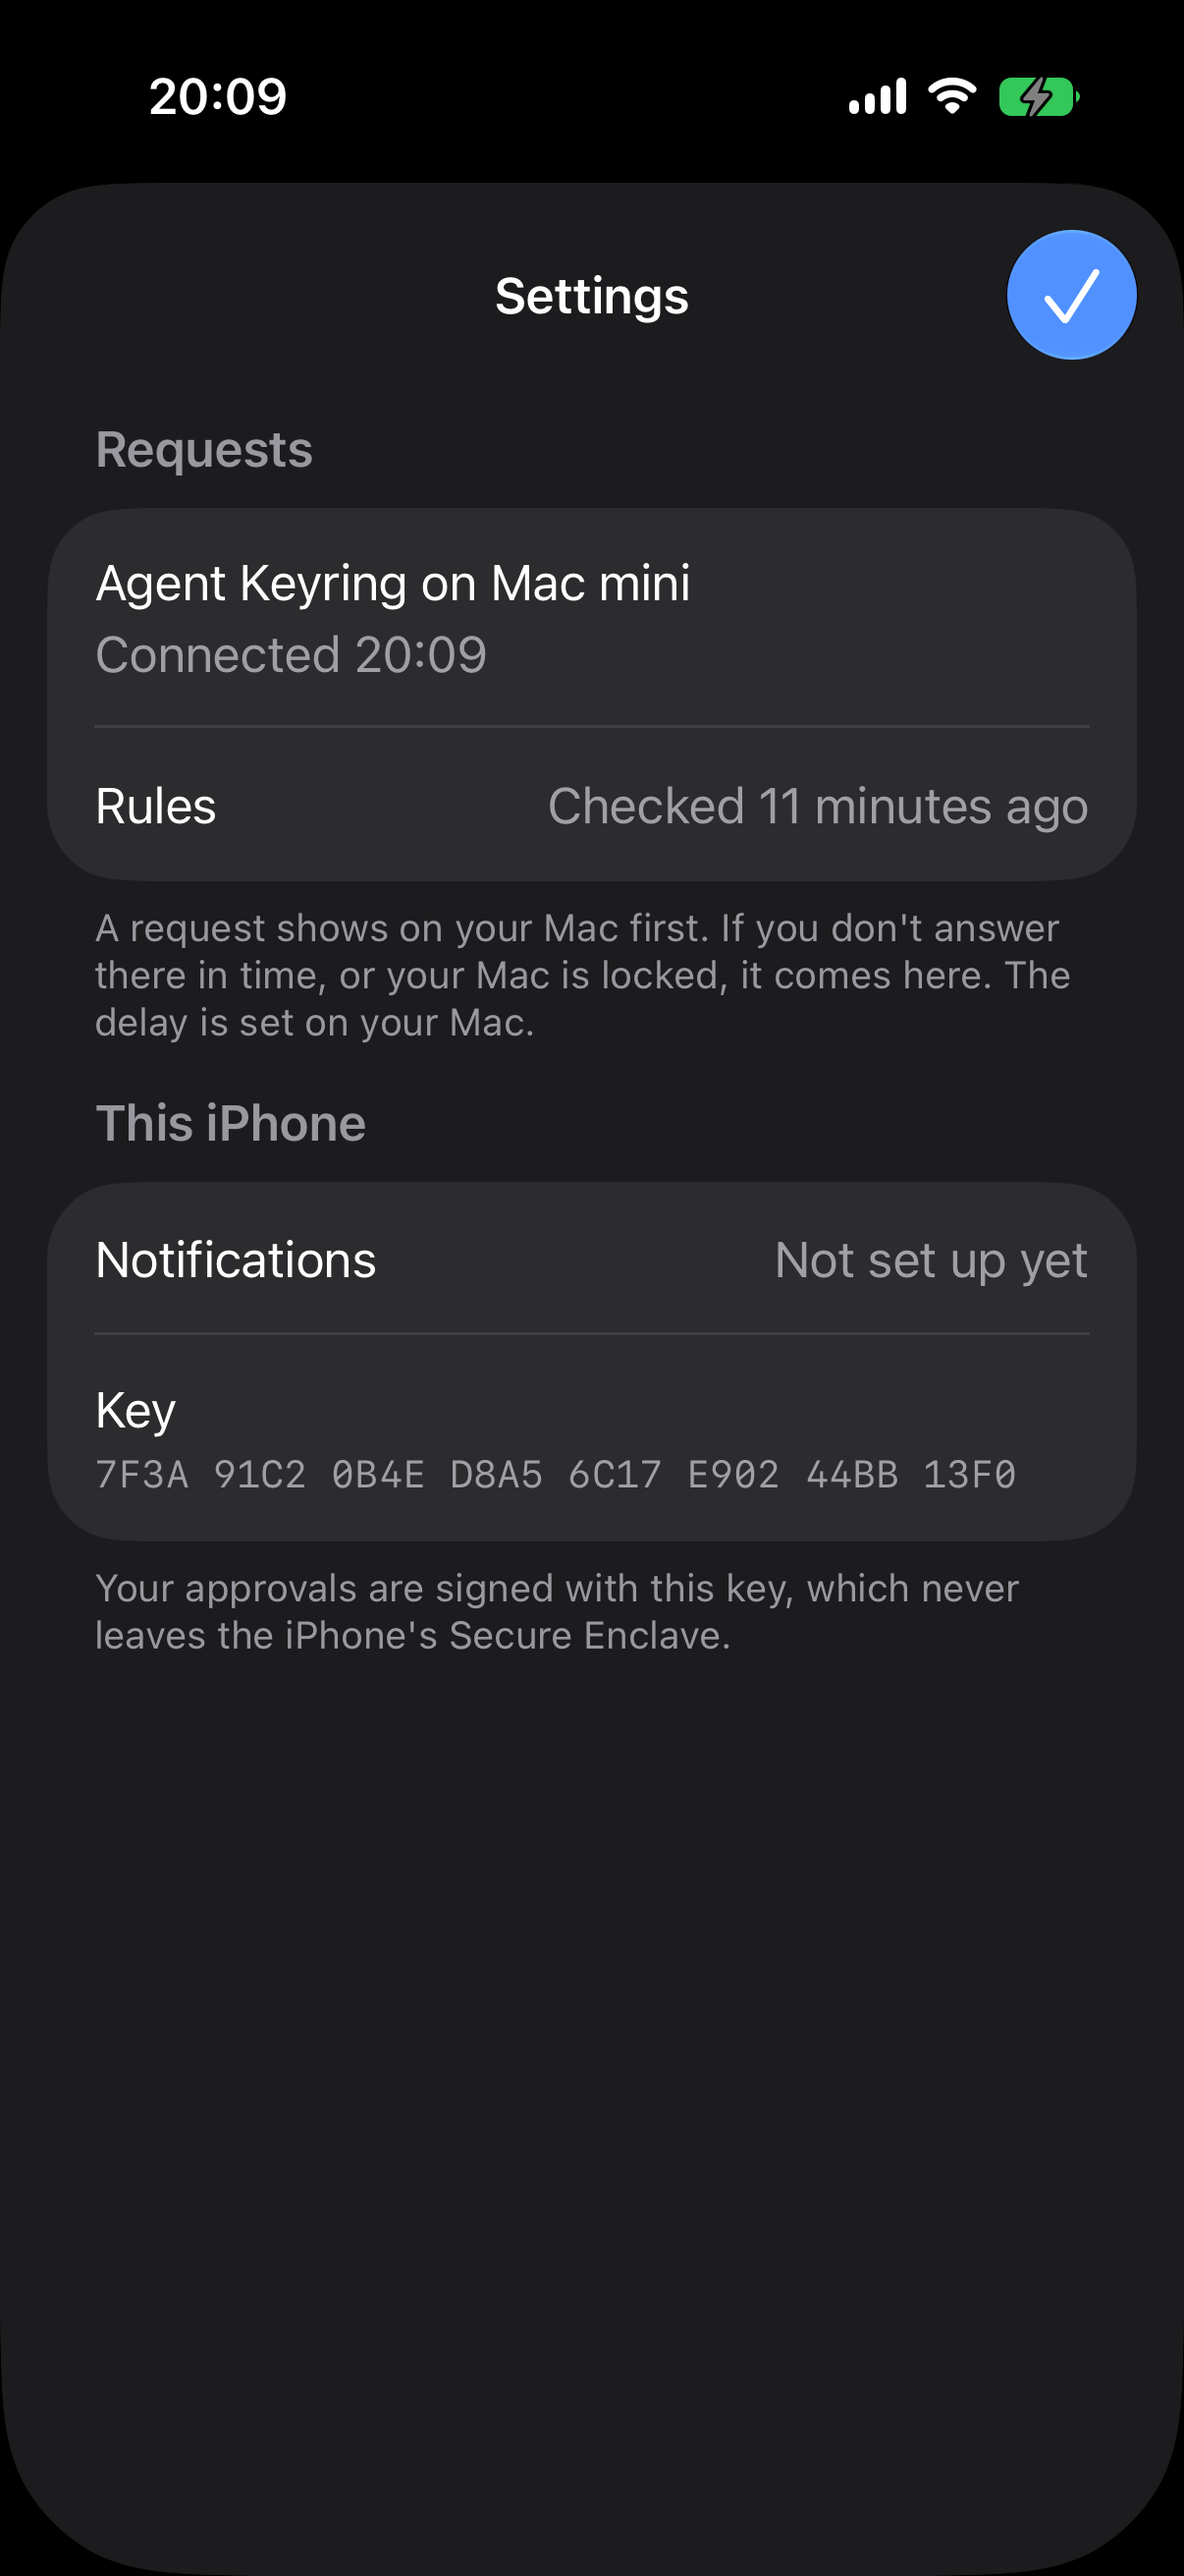
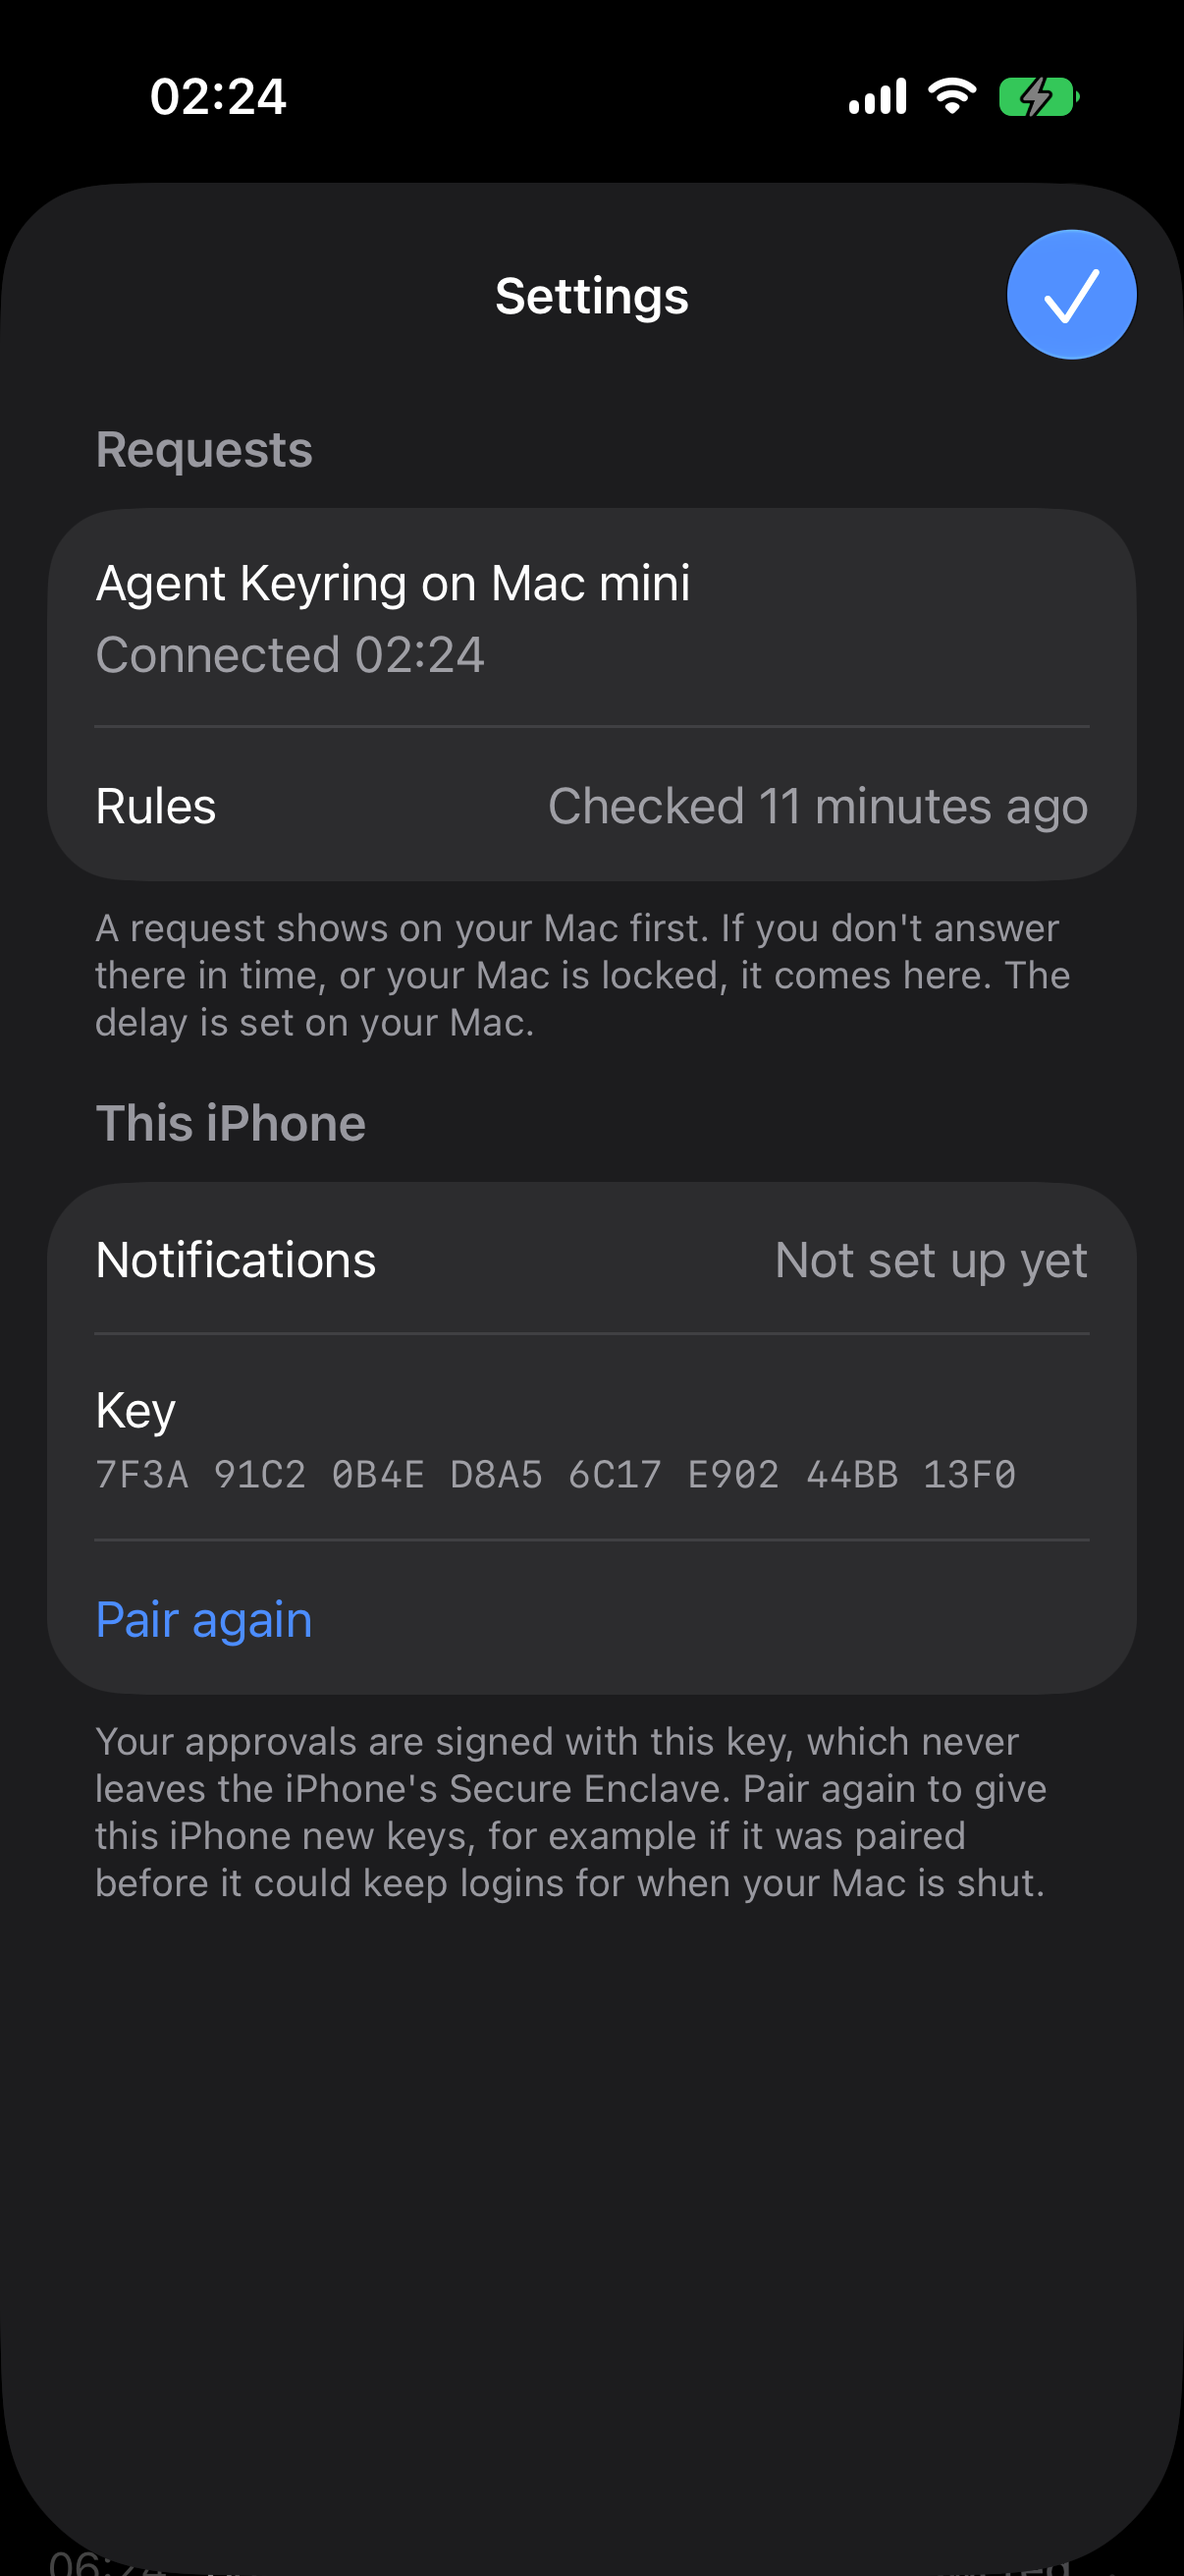
Let a paired iPhone pair again with new keys from Settings
"Pair again" in This iPhone starts beginReplacementPairing and opens
the existing pairing screen once it has started, so Josh compares the
code and approves on his Mac as before; a failure shows in Settings.
The footer says why: for an iPhone paired before it could keep logins
for when the Mac is shut. The pairing screen opens by value, so it stays
open as the phone leaves the paired state.

diff --git a/AgentKeyringPackage/Sources/AgentKeyringApprovalUI/Phone/PhoneSettingsView.swift b/AgentKeyringPackage/Sources/AgentKeyringApprovalUI/Phone/PhoneSettingsView.swift
@@ -1,8 +1,7 @@
 // Written by AI on 2026.10.31 by model Claude Opus 5.5.
 //
-// The things you set once and check when something is wrong: passwords on
-// this iPhone, the Agent Keyring it talks to, when requests reach the phone,
-// and this phone's key.
+// The things you set once and check when something is wrong: the Agent
+// Keyring this iPhone talks to, when requests reach it, and its key.
 
 #if os(iOS)
 import SwiftUI
@@ -10,15 +9,22 @@ import SwiftUI
 struct PhoneSettingsView: View {
     let model: PhoneKeyringModel
     @Environment(\.dismiss) private var dismiss
+    /// Value-based, so the pairing screen stays open while pairing moves the
+    /// phone out of the paired state that showed "Pair again".
+    @State private var path: [SettingsDestination] = []
+
+    private enum SettingsDestination: Hashable {
+        case pairing
+    }
 
     var body: some View {
-        NavigationStack {
+        NavigationStack(path: $path) {
             Form {
                 Section {
                     if model.pairing == .paired {
                         connectionRow
                     } else {
-                        NavigationLink(SetupCopy.pairTitle) { PhonePairingView(model: model) }
+                        NavigationLink(SetupCopy.pairTitle, value: SettingsDestination.pairing)
                     }
                     if let rulesUpdatedAt = model.settings.rulesUpdatedAt {
                         LabeledContent("Rules", value: "Checked \(rulesUpdatedAt.formatted(.relative(presentation: .named)))")
@@ -37,11 +43,27 @@ struct PhoneSettingsView: View {
                             .multilineTextAlignment(.trailing)
                             .textSelection(.enabled)
                     }
+                    if model.pairing == .paired {
+                        Button(SetupCopy.pairAgain) {
+                            Task {
+                                model.dismissFailure()
+                                await model.beginReplacementPairing()
+                                if model.failure == nil { path.append(.pairing) }
+                            }
+                        }
+                    }
                 } header: {
                     Text("This iPhone")
                 } footer: {
-                    Text("Your approvals are signed with this key, which never leaves the iPhone's Secure Enclave.")
+                    Text(model.pairing == .paired ? SetupCopy.pairAgainFooter
+                        : "Your approvals are signed with this key, which never leaves the iPhone's Secure Enclave.")
                 }
+            }
+            .navigationDestination(for: SettingsDestination.self) { _ in PhonePairingView(model: model) }
+            .alert("Something went wrong", isPresented: failureShown) {
+                Button("OK") { model.dismissFailure() }
+            } message: {
+                Text(model.failure ?? "")
             }
             .navigationTitle("Settings")
             .navigationBarTitleDisplayMode(.inline)
@@ -52,6 +74,10 @@ struct PhoneSettingsView: View {
             }
         }
         .tint(KeyringColour.signal)
+    }
+
+    private var failureShown: Binding<Bool> {
+        Binding(get: { model.failure != nil }, set: { if !$0 { model.dismissFailure() } })
     }
 
     @ViewBuilder private var connectionRow: some View {

diff --git a/AgentKeyringPackage/Sources/AgentKeyringApprovalUI/Shared/SetupCopy.swift b/AgentKeyringPackage/Sources/AgentKeyringApprovalUI/Shared/SetupCopy.swift
@@ -127,6 +127,9 @@ public enum SetupCopy {
     // MARK: The iPhone's pairing
 
     public static let pairTitle = "Pair with your Mac"
+    /// Fresh keys through the same comparison; the Mac drops this iPhone's old key.
+    public static let pairAgain = "Pair again"
+    public static let pairAgainFooter = "Your approvals are signed with this key, which never leaves the iPhone's Secure Enclave. Pair again to give this iPhone new keys, for example if it was paired before it could keep logins for when your Mac is shut."
     public static let pairIntro = "Pairing lets requests reach this iPhone through the relay on your Mac mini, and lets you answer them here."
     public static let pairButton = "Pair"
     public static let pairingConnecting = "Connecting to the relay…"
